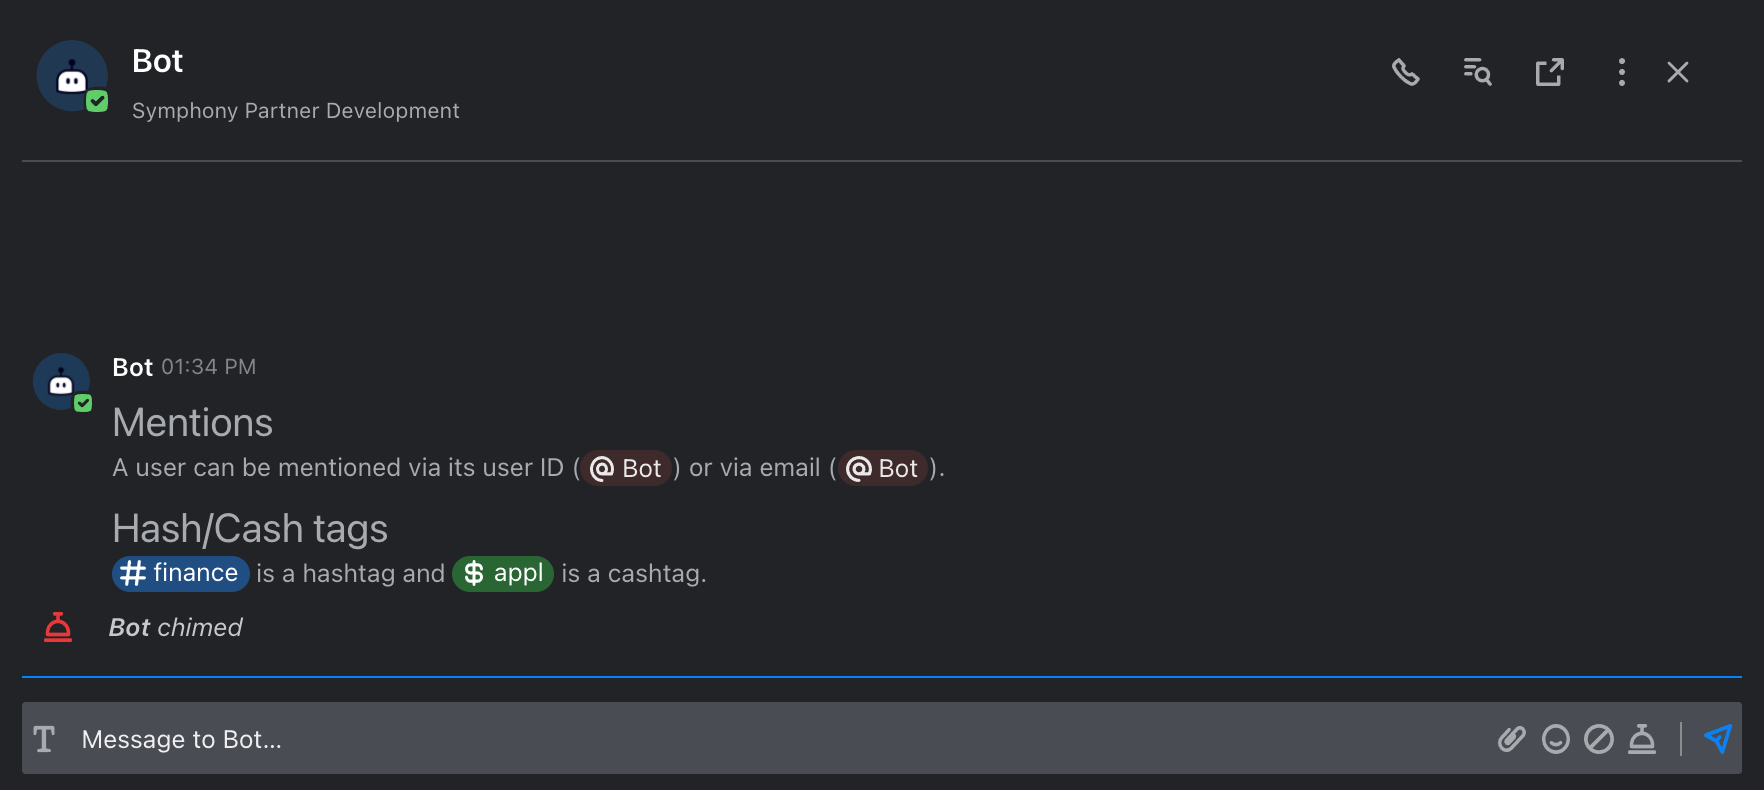
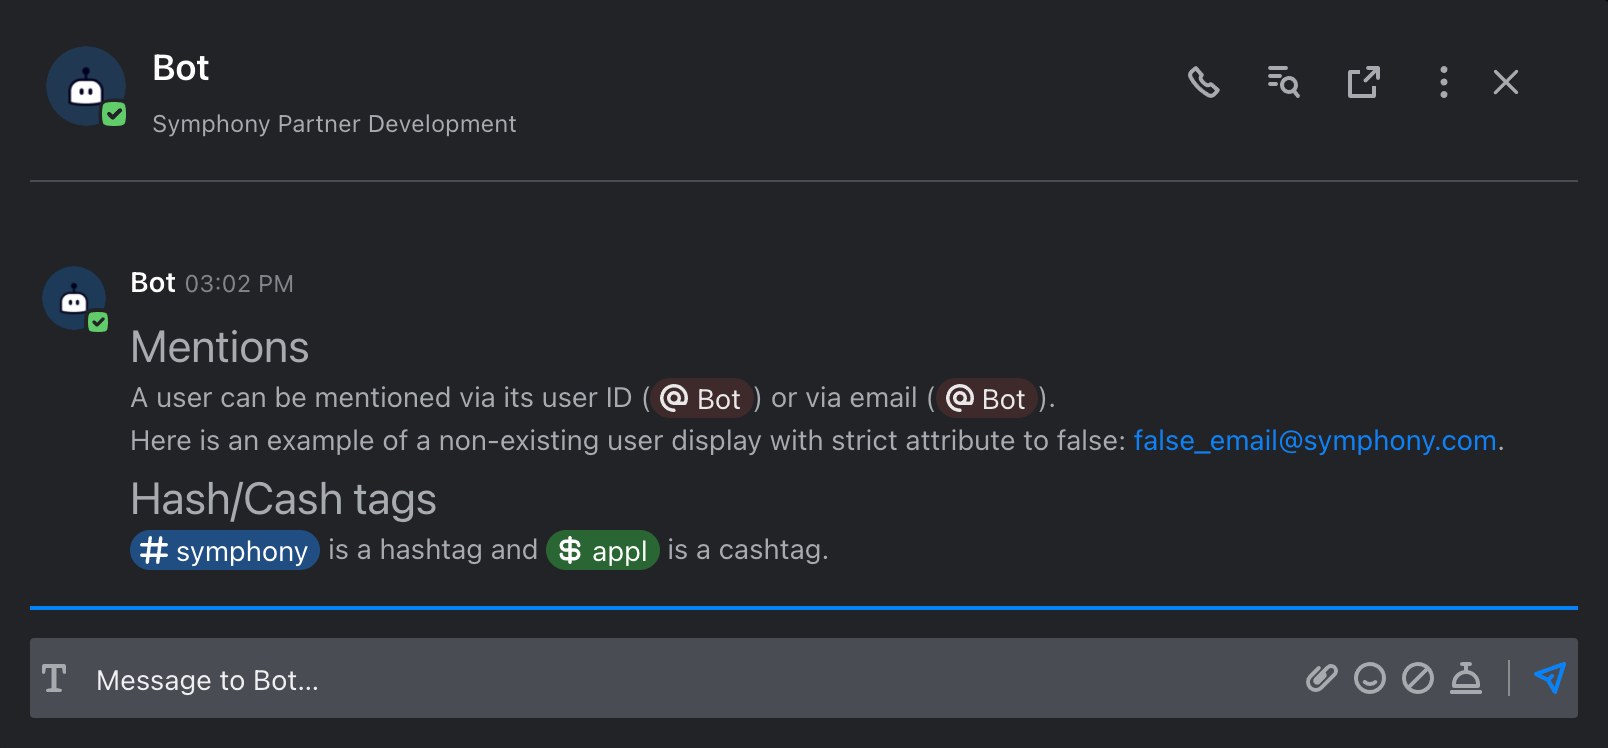
GitBook: [#764] mml_specific_to_symphony example update

diff --git a/building-bots-on-symphony/messages/overview-of-messageml/messageml-basic-format-tags/shorthand-tags.md b/building-bots-on-symphony/messages/overview-of-messageml/messageml-basic-format-tags/shorthand-tags.md
@@ -25,9 +25,9 @@ Here after you can find an example of a message sent by a bot and containing the
 ```markup
 <messageML>
     <h1>Mentions</h1>
-    <p>A user can be mentioned via its user ID (<mention uid="349026222355596"/>) or via email (<mention email="chaystbot1develop2@symphony.com" />).</p>
+    <p>A user can be mentioned via its user ID (<mention uid="349026222355596"/>) or via email (<mention email="bot@symphony.com" />).<br/>Here is an example of a non-existing user display with strict attribute to false: <mention email="false_email@symphony.com" strict="false"/>.</p>
     <h1>Hash/Cash tags</h1>
-    <p><hash tag="finance"/> is a hashtag and <cash tag="appl"/> is a cashtag.</p>
+    <p><hash tag="symphony"/> is a hashtag and <cash tag="appl"/> is a cashtag.</p>
 </messageML>
 ```
 {% endtab %}
